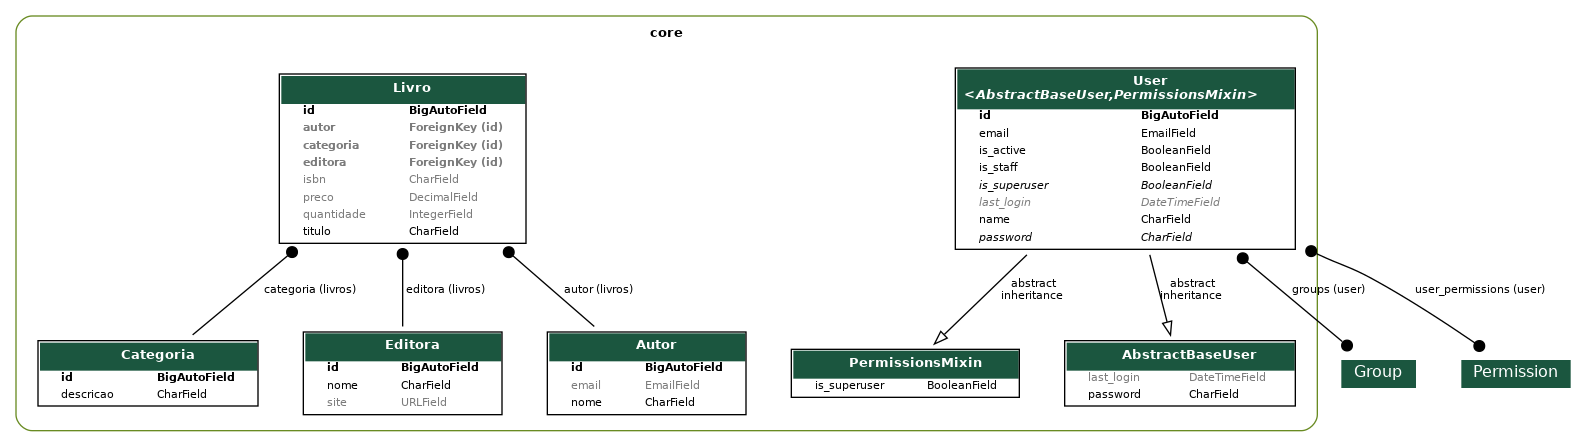
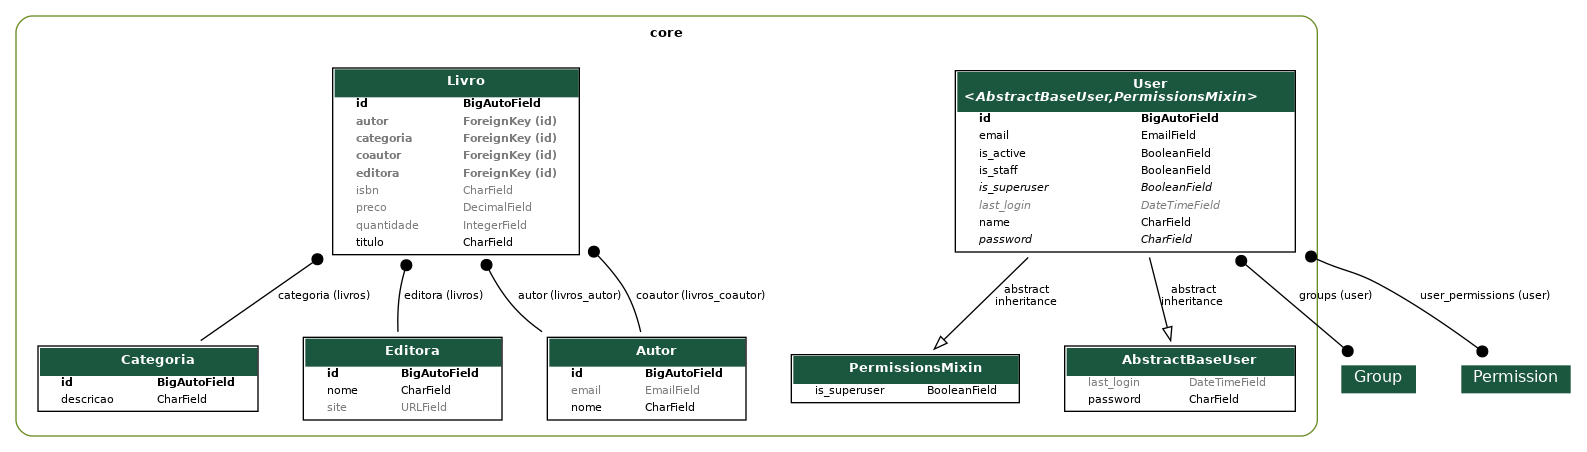
Livro com Autor e Coautor

diff --git a/core/migrations/0007_livro_coautor_alter_livro_autor_alter_livro_preco_and_more.py b/core/migrations/0007_livro_coautor_alter_livro_autor_alter_livro_preco_and_more.py
@@ -1,0 +1,48 @@
+# Generated by Django 5.0.2 on 2024-08-12 17:20
+
+import django.db.models.deletion
+from django.db import migrations, models
+
+
+class Migration(migrations.Migration):
+
+    dependencies = [
+        ("core", "0006_livro_autor"),
+    ]
+
+    operations = [
+        migrations.AddField(
+            model_name="livro",
+            name="coautor",
+            field=models.ForeignKey(
+                blank=True,
+                null=True,
+                on_delete=django.db.models.deletion.PROTECT,
+                related_name="livros_coautor",
+                to="core.autor",
+            ),
+        ),
+        migrations.AlterField(
+            model_name="livro",
+            name="autor",
+            field=models.ForeignKey(
+                blank=True,
+                null=True,
+                on_delete=django.db.models.deletion.PROTECT,
+                related_name="livros_autor",
+                to="core.autor",
+            ),
+        ),
+        migrations.AlterField(
+            model_name="livro",
+            name="preco",
+            field=models.DecimalField(
+                blank=True, decimal_places=2, default=0, max_digits=7, null=True, verbose_name="Preço"
+            ),
+        ),
+        migrations.AlterField(
+            model_name="livro",
+            name="titulo",
+            field=models.CharField(max_length=255, verbose_name="Título"),
+        ),
+    ]

diff --git a/core/models/livro.py b/core/models/livro.py
@@ -11,7 +11,8 @@ class Livro(models.Model):
     preco = models.DecimalField(max_digits=7, decimal_places=2, default=0, null=True, blank=True, verbose_name="Preço") 
     categoria = models.ForeignKey(Categoria, on_delete=models.PROTECT, related_name="livros", blank=True, null=True)
     editora = models.ForeignKey(Editora, on_delete=models.PROTECT, related_name="livros", blank=True, null=True)
-    autor = models.ForeignKey(Autor, on_delete=models.PROTECT, related_name="livros", blank=True, null=True)
+    autor = models.ForeignKey(Autor, on_delete=models.PROTECT, related_name="livros_autor", blank=True, null=True)
+    coautor = models.ForeignKey(Autor, on_delete=models.PROTECT, related_name="livros_coautor", blank=True, null=True)
 
 
     def __str__(self):
